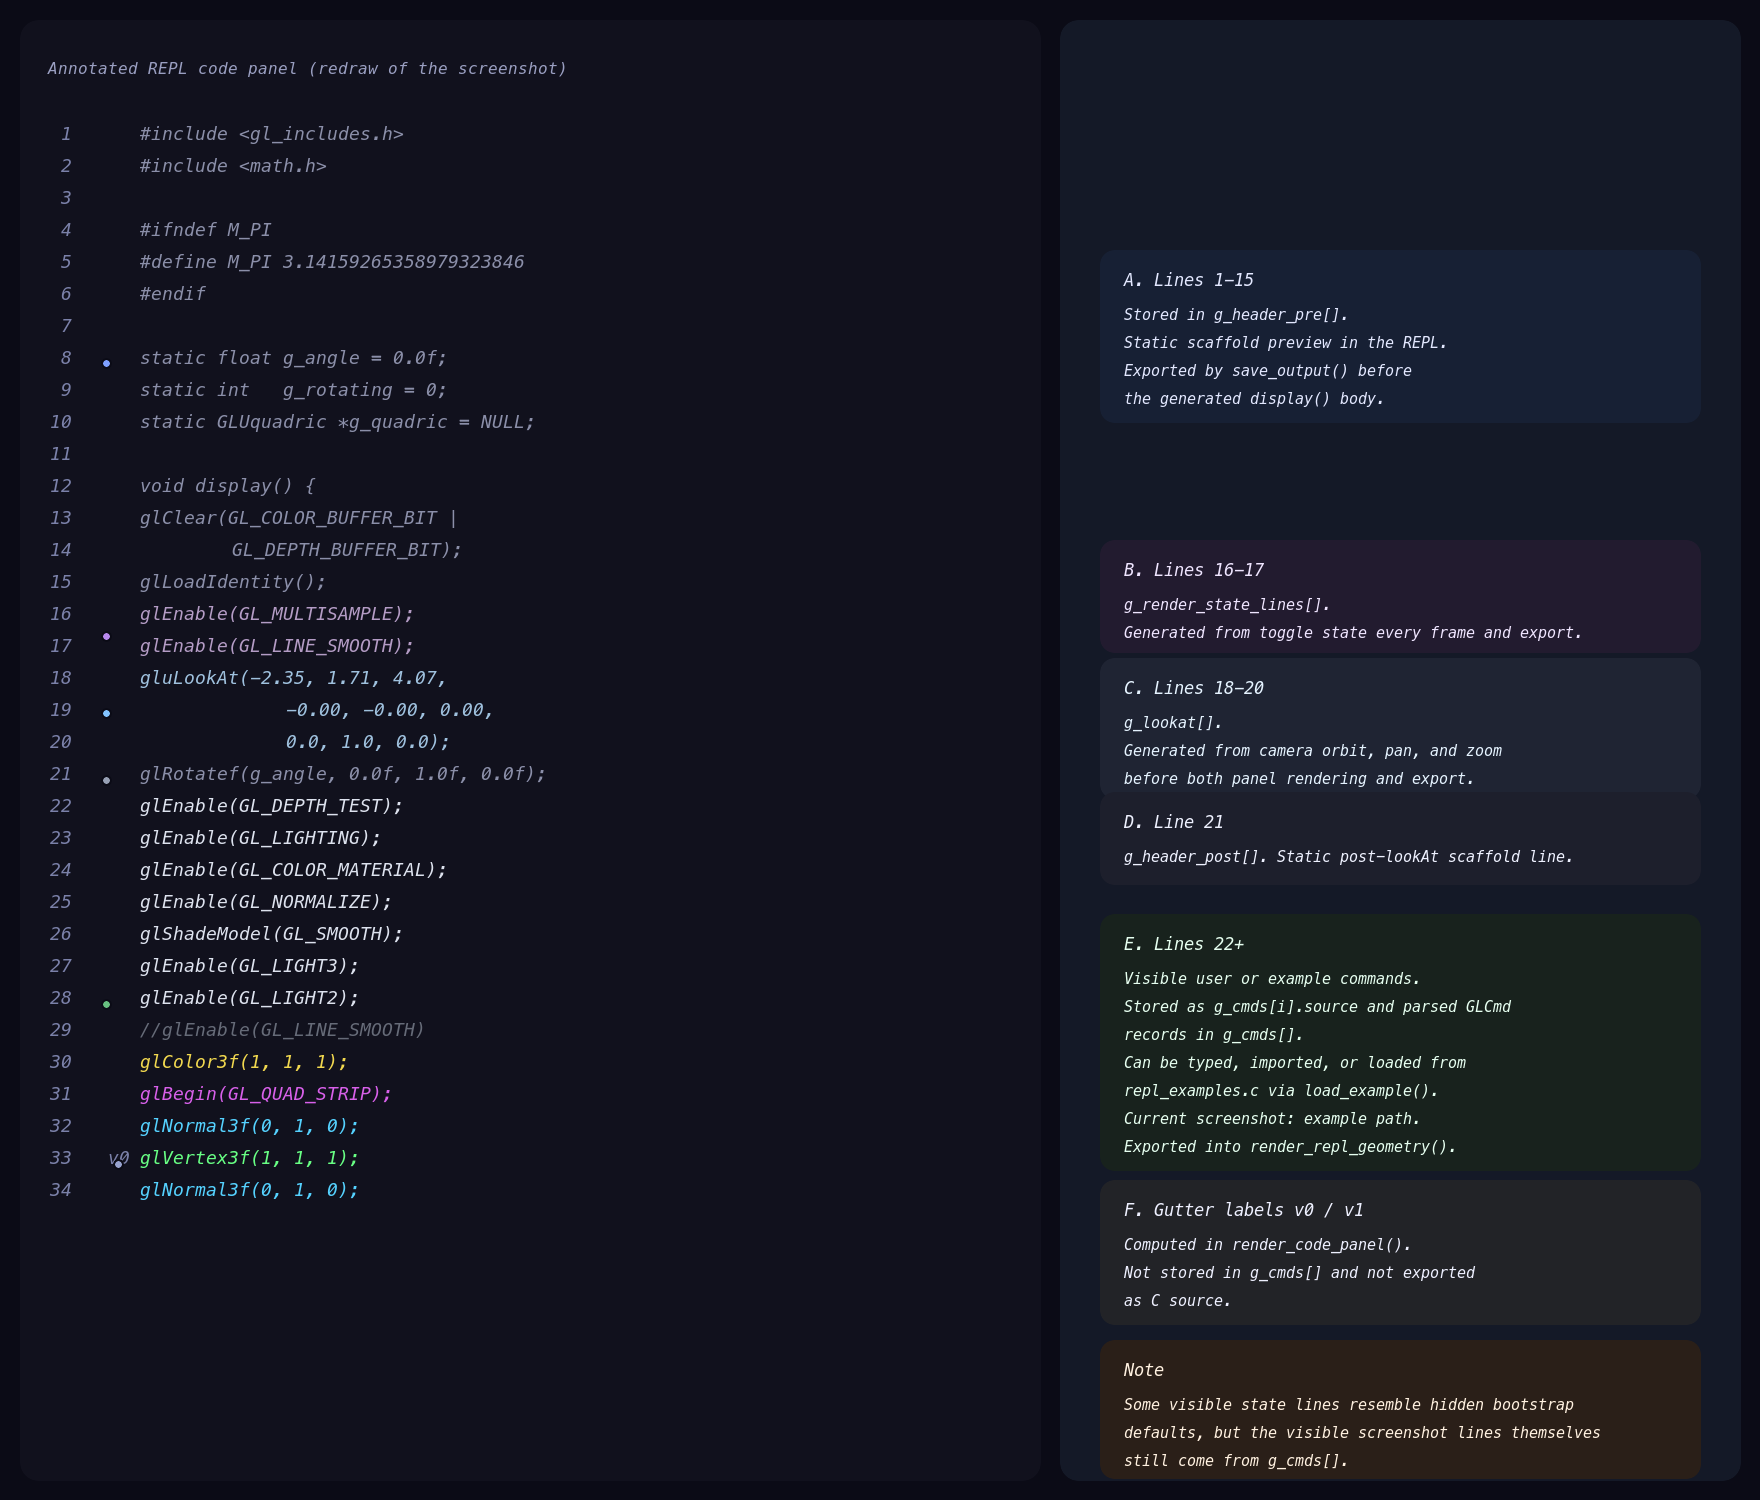
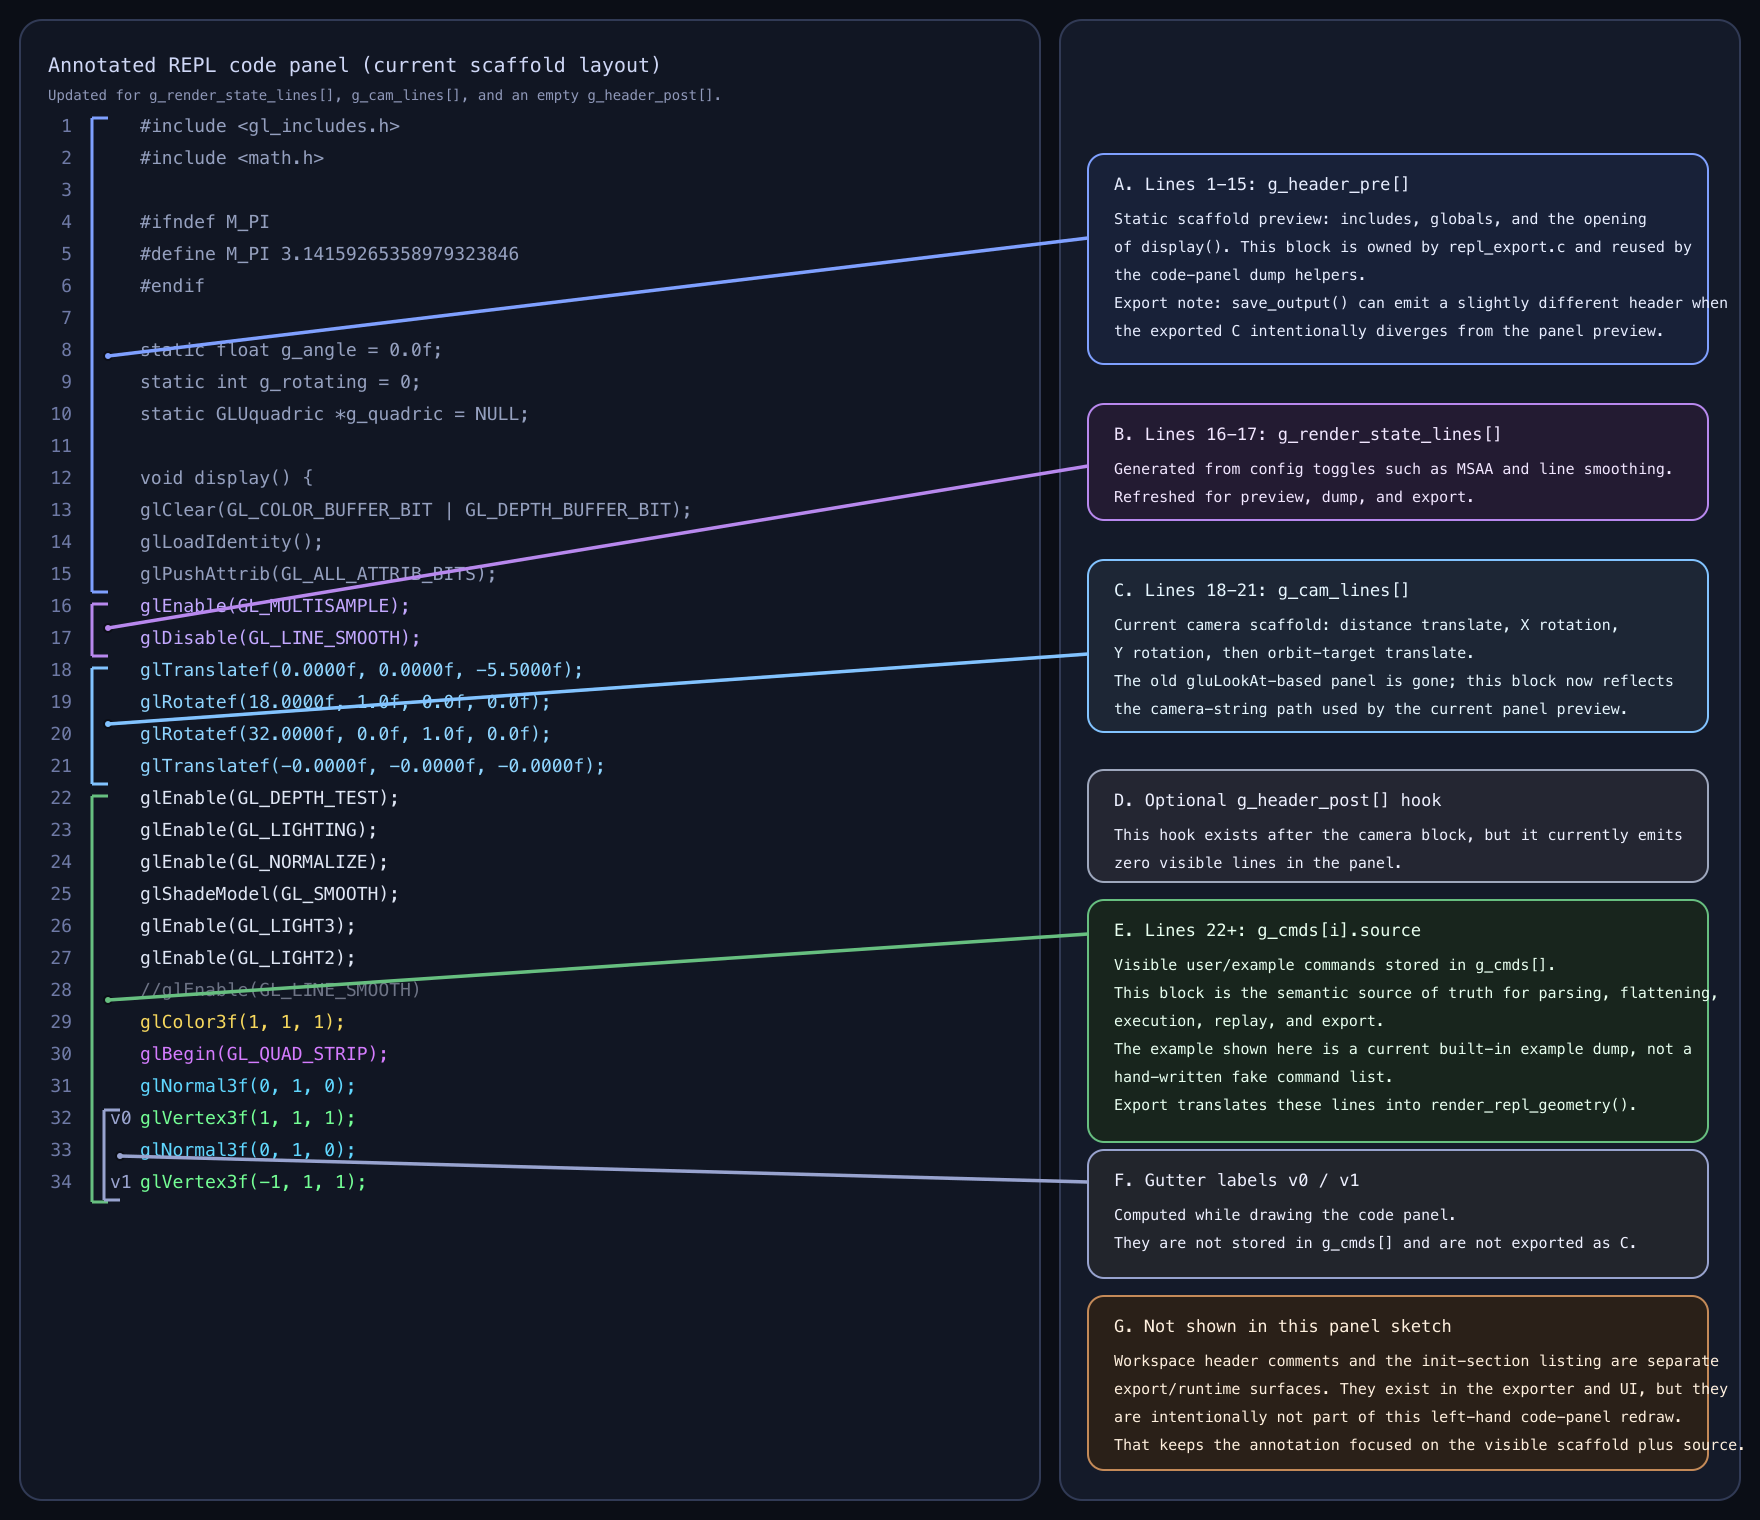
updated ARCHITECTURE.md wrt adding new predefined variables

diff --git a/ARCHITECTURE.md b/ARCHITECTURE.md
@@ -182,6 +182,39 @@ Replay state and stepping remain in `repl_core.c`, but editor callbacks in
    truth.
 3. Preserve round-tripping through `load_from_file()` whenever possible.
 
+### Add a new predefined variable
+
+There are two variable classes in the REPL:
+
+- predefined globals stored in `g_predef_vars[]`
+- scoped locals introduced by `for(...)` loop indices and `funcN(...)`
+  parameters
+
+Top-level assignments like `foo = 1;` only target predefined globals. Loop
+indices and function parameters are collected as local `ExprVar` scopes during
+flattening; they are not added to the global variable table.
+
+To add a new predefined global:
+
+1. Increase `MAX_PREDEF_VARS` in `repl_eval.h` if you need more slots.
+2. Add the new variable name to the `names[]` array in `init_predef_vars()` in
+   `repl_eval.c`.
+3. Keep names within the `ExprVar.name[16]` storage limit.
+4. If you add many globals, also check `MAX_WORKSPACE_HEADER_LINES` in
+   `sample.h`, because workspace save/load persists globals through `// @var`
+   header lines.
+
+Existing export/import and persistence paths already iterate
+`g_predef_vars[]`, so new predefined globals automatically:
+
+- participate in expression evaluation
+- round-trip through workspace headers in `repl_export.c`
+- emit as file-scope globals in exported C
+- reset in exported `reset_repl_vars()`
+
+Special case: `t` is wired into animation/time helpers in `repl_core.c`. New
+variables are plain globals unless you add similar runtime plumbing.
+
 ## Current Split Intent
 
 The split is structural, not behavioral.
